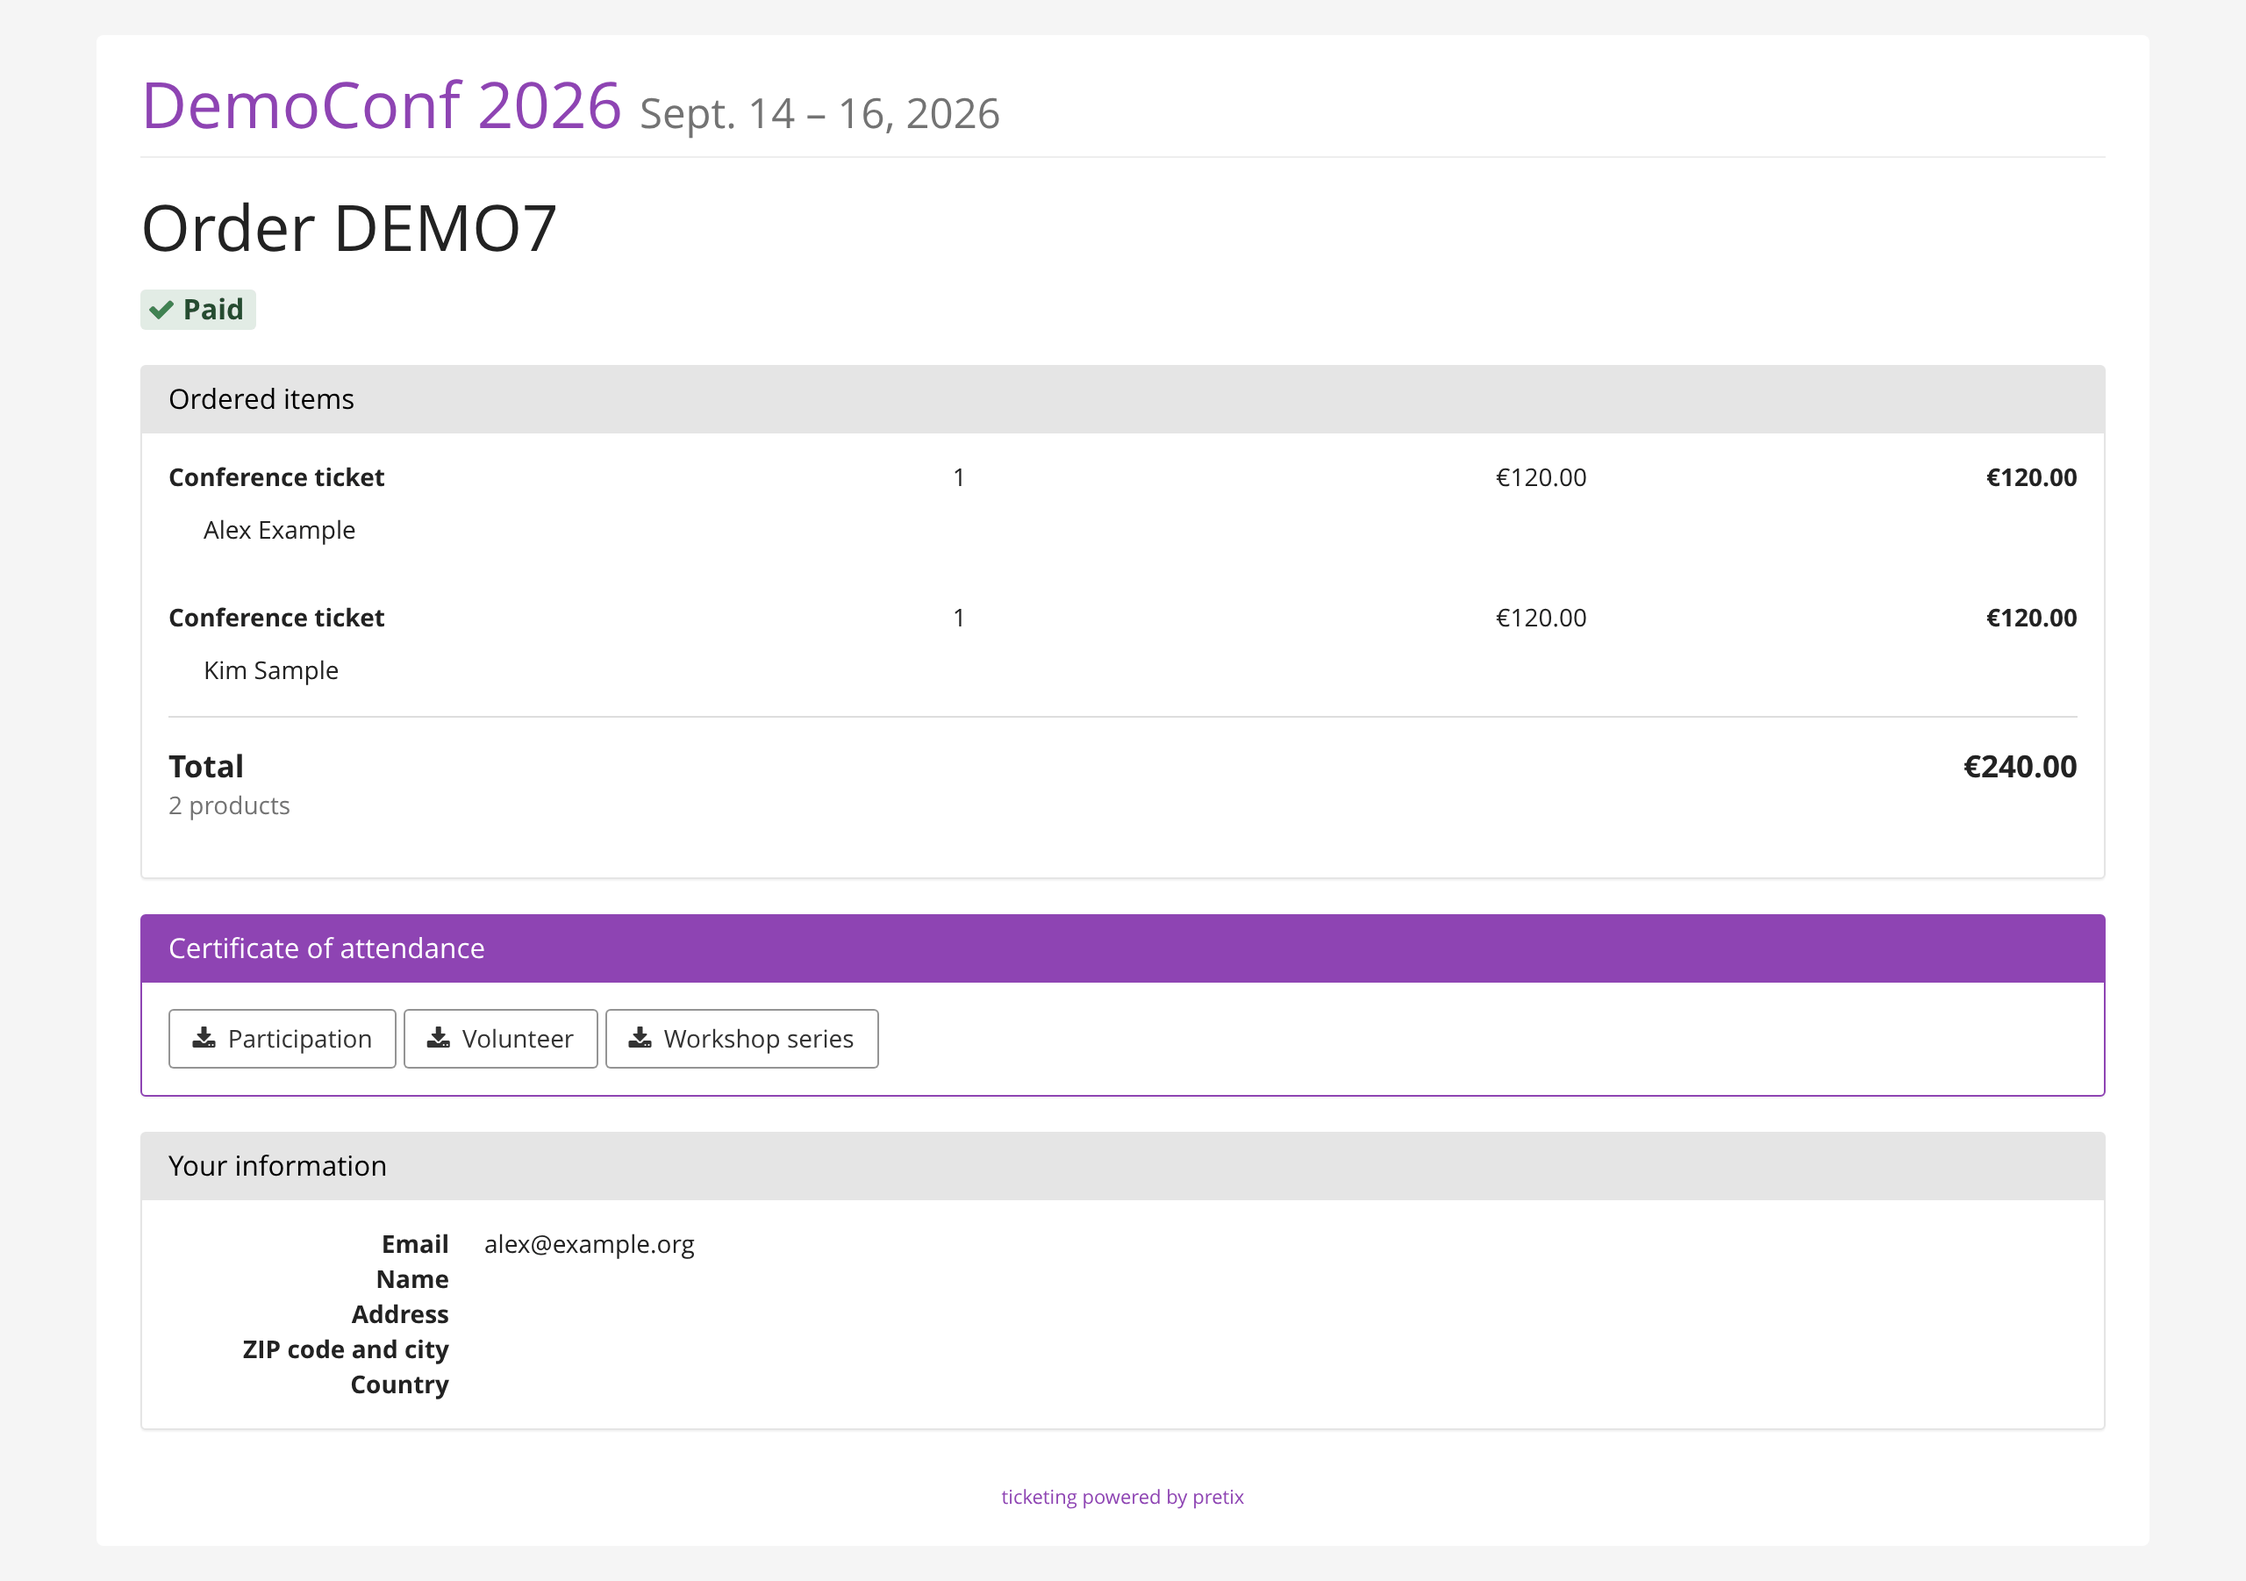
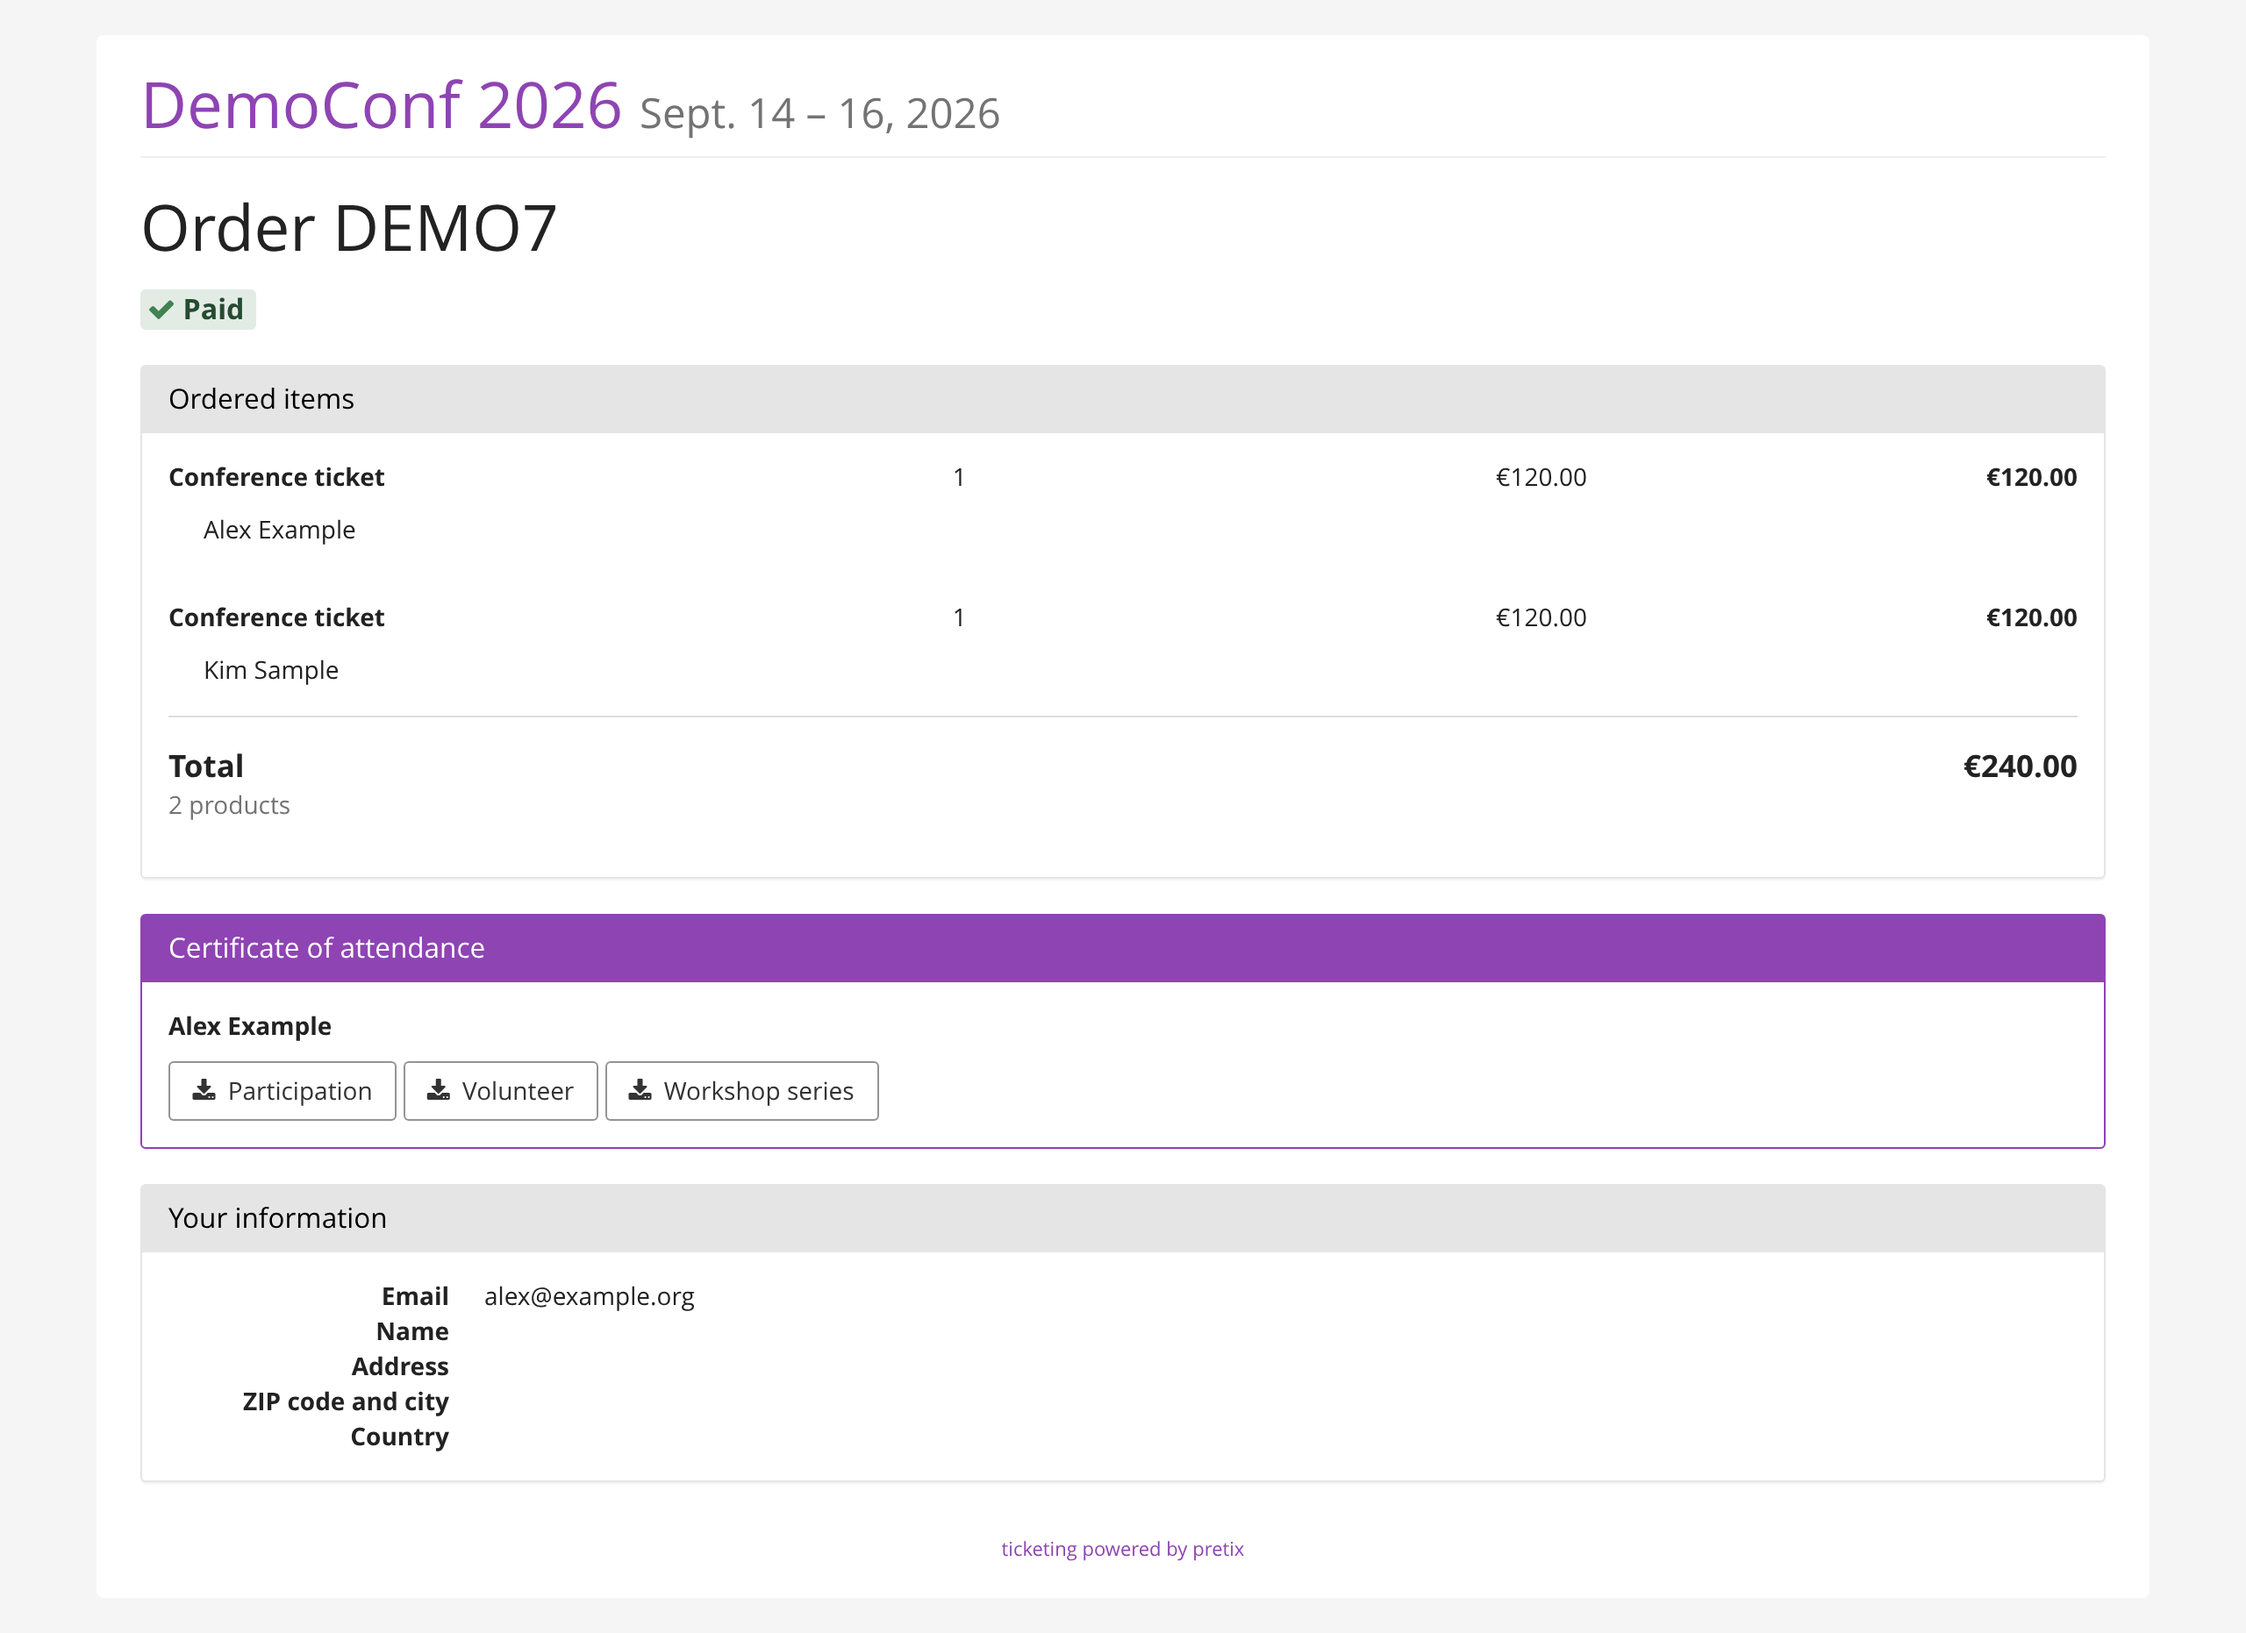
fix: name the attendee on the order page when the order has several tickets
The self-service box only showed the attendee's name when more than one
attendee had a certificate. With two tickets of which only one was
eligible, the buttons did not say whose certificate they were. The name
is now shown whenever the order has more than one ticket.

Claude-Session: https://claude.ai/code/session_01SyG5MQvnBsHbB8T8Q8cYuL

diff --git a/pretix_attendance_certificate_neo/templates/pretix_attendance_certificate_neo/presale_certificates.html b/pretix_attendance_certificate_neo/templates/pretix_attendance_certificate_neo/presale_certificates.html
@@ -5,7 +5,7 @@
     </div>
     <div class="panel-body">
         {% for row in rows %}
-            {% if rows|length > 1 %}
+            {% if show_names %}
                 <p><strong>{{ row.position.attendee_name|default:row.position.item }}</strong></p>
             {% endif %}
             <p>

diff --git a/tests/test_checkin_list_templates.py b/tests/test_checkin_list_templates.py
@@ -14,6 +14,7 @@ from pretix_attendance_certificate_neo.models import (
     LayoutActivation,
     certificate_options,
 )
+from pretix_attendance_certificate_neo.signals import presale_order_info
 from pretix_attendance_certificate_neo.views.presale import SELF_SERVICE_SETTING
 
 
@@ -523,6 +524,33 @@ def test_self_service_requires_the_attendee_to_have_been_checked_in(
     )
     content = client.get(_order_page(event, order)).content.decode()
     assert _self_service_url(event, order, pos_absent, layout) not in content
+
+
+def _self_service_box(event, order, rf):
+    """The plugin's "Certificate of attendance" box on the order page."""
+    with scopes_disabled():
+        return presale_order_info(sender=event, order=order, request=rf.get("/"))
+
+
+@pytest.mark.django_db
+def test_self_service_names_the_attendee_if_the_order_has_several_tickets(
+    rf, event, order, pos, pos_absent, layout, self_service
+):
+    # Only pos has a certificate, but the order has two tickets: the box must
+    # say whose certificate it is.
+    box = _self_service_box(event, order, rf)
+    assert _self_service_url(event, order, pos, layout) in box
+    assert "Marco Acierno" in box
+    assert "Absent Person" not in box
+
+
+@pytest.mark.django_db
+def test_self_service_omits_the_name_for_a_single_ticket(
+    rf, event, order, pos, layout, self_service
+):
+    box = _self_service_box(event, order, rf)
+    assert _self_service_url(event, order, pos, layout) in box
+    assert "Marco Acierno" not in box
 
 
 @pytest.mark.django_db

diff --git a/pretix_attendance_certificate_neo/signals.py b/pretix_attendance_certificate_neo/signals.py
@@ -198,12 +198,15 @@ def _self_service_links(event, order, position, secret):
 
 
 def _render_self_service(request, rows):
+    # Name the attendee whenever the page covers several tickets - even if only
+    # one of them has a certificate, the buttons must say whose it is.
+    show_names = len(rows) > 1
     rows = [r for r in rows if r["links"]]
     if not rows:
         return ""
     return mark_safe(
         get_template("pretix_attendance_certificate_neo/presale_certificates.html")
-        .render({"rows": rows}, request=request)
+        .render({"rows": rows, "show_names": show_names}, request=request)
         .strip()
     )
 
